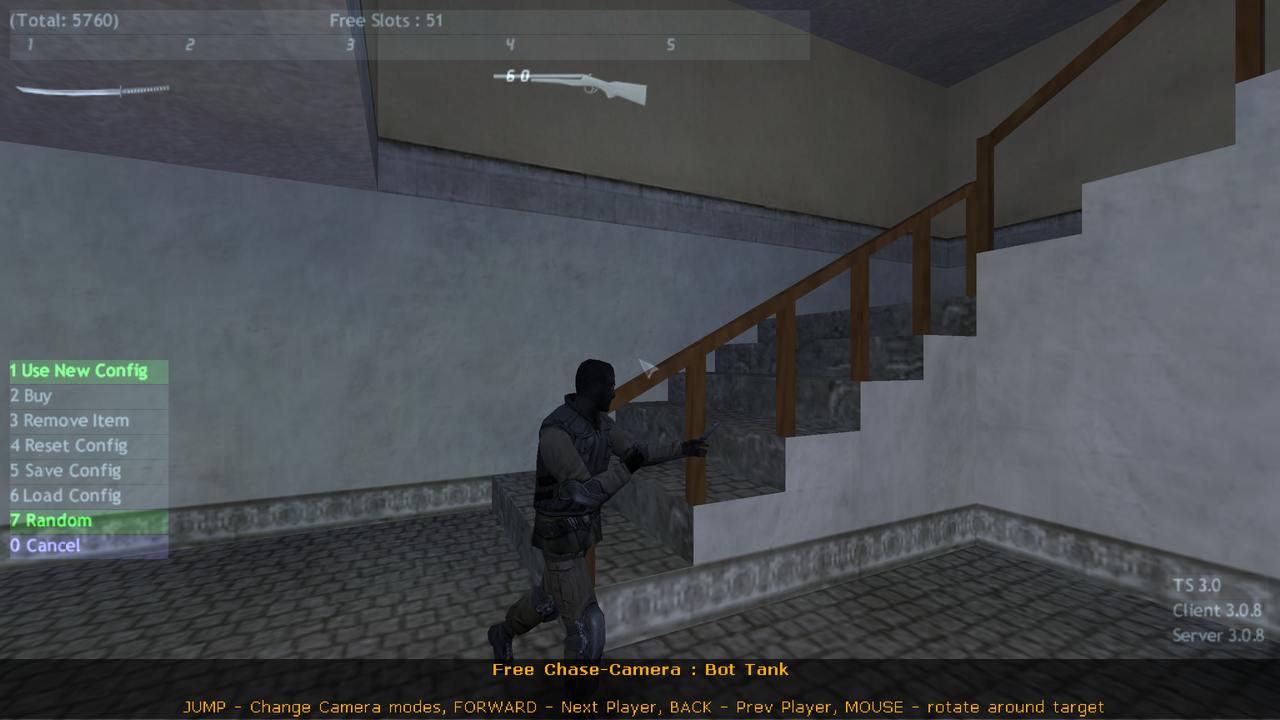
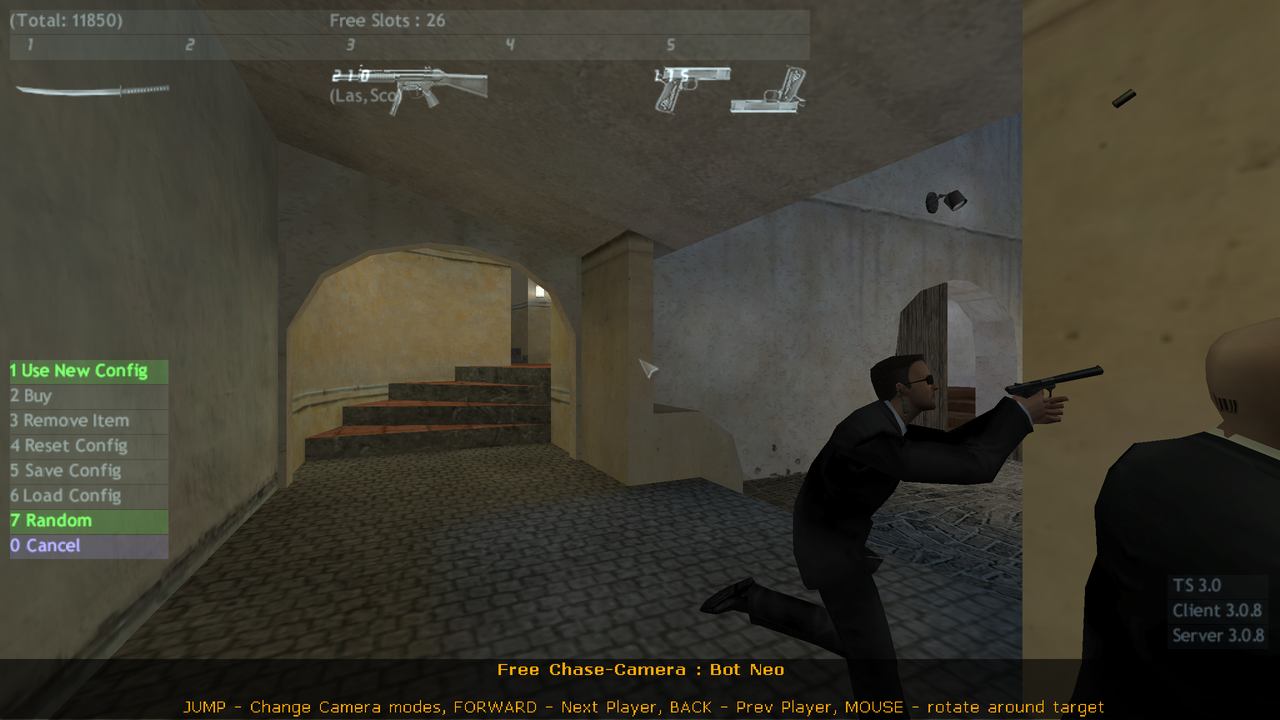
docs: the README now matches what production actually does
The README still carried the withdrawn keyboard root cause as one of "the
four things that make it work" — "the published WASM build never drains
its SDL event queue and no keyboard event reaches the game" — and its
whole section 3 was the old command-map bridge. That claim was disproven
on 2026-10-24 and the fix is live; the README just never heard about it.

What changed:

- Section 3 is now "The keyboard path": the engine's own bind table runs
  the keys, the front end opens TS's anti-script gate for the gated
  commands, bridges the two mouse buttons, and keeps Escape out of the
  engine entirely (three-stage DOM state machine).
- The `ts_gate` section no longer rests on the withdrawn premise.
- Known limitations: the console is disabled on purpose, and a bare
  `reload` aborts the WASM heap. The withdrawn upstream claim is flagged
  so the draft report is not filed.
- 36 -> 67 unit tests, and the submodule branch is `feat/keyboard-native-input`.
- The dev setup says `bun install` (it is a bun project, no npm lockfile)
  and states the one thing that does not work yet: a browser client cannot
  connect to a LOCAL game server (E5).
- New "What is next" section, pointing at HANDOFF and FE-MOD-PLAN.
- Both screenshots re-captured from the live site today with
  `tools/deploy/capture-readme-shots.cjs`, downscaled to 1280 wide.

Verified: images resolve, every relative link resolves, HTML table tags
balanced, markdown table columns consistent, and the page rendered in a
[…]

diff --git a/README.md b/README.md
@@ -11,7 +11,7 @@
     </td>
     <td align="center" valign="top" width="50%">
       <b>In game</b><br>
-      <img src="docs/screenshots/spectator.png" alt="The game running in the browser: the ts_casa map rendering, a character model, the TS weapon HUD, and the buy menu" width="100%">
+      <img src="docs/screenshots/spectator.png" alt="The game running in the browser: the ts_casa map rendering, two character models, the TS weapon HUD across the top, and the buy/config menu open on the left" width="100%">
     </td>
   </tr>
 </table>
@@ -40,6 +40,9 @@
 - **Changing the CI or the deploy?** Read
   [`docs/CI-CD.md`](./docs/CI-CD.md) — including the two traps that have
   already broken a build.
+- **Looking for the open work?** Read
+  [`docs/FE-MOD-PLAN.md`](./docs/FE-MOD-PLAN.md) — the front end and mod
+  work list, grouped into batches, with the reasoning and the order.
 
 ---
 
@@ -52,8 +55,10 @@ None of them is obvious, and each one cost a debugging round.
    code, not a JavaScript reimplementation.
 2. **A WebSocket↔UDP bridge**, because a browser cannot emit UDP and the
    engine's network stack speaks it natively.
-3. **A command bridge**, because the published WASM build never drains its
-   SDL event queue and no keyboard event reaches the game.
+3. **The engine's own key path**, used as it is. The engine does receive
+   DOM keys and runs its own bind table — that was measured, not assumed.
+   The front end's job is to stay out of the way, and to keep Escape away
+   from the engine entirely.
 4. **A gate fix in the port**, because TS deliberately refuses to run nine
    button commands unless a physical keypress opened them.
 
@@ -113,32 +118,56 @@ the bridge *where* to send a packet; only the floor says whether it is
 refused **before** the handshake, with a plain 403, because a connection
 that opens and then closes reads to the client as "connected".
 
-### 3. The command bridge
+### 3. The keyboard path
 
-The published `xash.wasm` never calls `SDL_PollEvent`, so nothing drains
-the SDL queue: a pushed `SDL_KeyboardEvent` is *accepted* (returns `1`)
-and then sits there forever, alongside the engine's own window and
-audio-device events. No key event ever reaches `HUD_Key_Event`.
+The engine's keyboard works. With the TS client's own `ts_dev_keylog 1`, in
+a real Chromium against a live server:
 
-So `keyboard-bridge.ts` listens for DOM keys directly and execs engine
-**commands** through `Cmd_ExecuteString`. This covers movement, weapon
-slots, the scoreboard, the console toggle, and spawn.
+```
+[ts key] HUD_Key_Event escape down=1 binding="cancelselect" -> 1
+[ts key] cancelselect: escape
+```
 
-**Its ceiling:** anything implemented as a client-DLL *key handler* —
-clicking an item in the buy menu, typing into the console — stays
-unreachable. That is structural, not a bug, and it is upstream's to fix.
+The engine's `keydown` listener fires, reaches `HUD_Key_Event`, and runs
+its own bind table — `ts/config.cfg` already binds movement, weapon
+slots, chat, third person, reload and use.
 
-Two things about this bridge that are easy to get backwards:
+The long-held belief that the engine never sees a key was **wrong**, and
+it cost a bug: the front end *also* translated every DOM key into an
+engine command, so every key ran twice. That is the whole of "typing
+triggers hot keys AND types at the same time" — Y opened the chat twice,
+and the real keystroke typed a `y` into a chat that was already open —
+and of third person looking broken, because X ran `thirdperson` twice, on
+then straight back off.
 
-- **Held vs instant.** `+showscores`/`-showscores` is a button and must be
-  held; `toggleconsole` is a plain action and must be sent **bare**.
-  `Cmd_ExecuteString` looks up `argv[0]` literally, so sending
-  `+toggleconsole` prints `Unknown command: +toggleconsole`. Probe both
-  spellings; the two tables are not derivable from each other.
-- **Grep both wasms.** Engine-owned commands (`showscores`,
-  `toggleconsole`) live in `xash.wasm`; client-DLL commands (`slot1`,
-  `buy`) live in the client wasm. A missing symbol from one binary is not
-  evidence the command doesn't exist.
+So there is no command map any more. What the front end still does:
+
+- **Nothing, for most keys.** The engine's bind table runs them.
+- **Opens TS's anti-script gate** for the gated button commands it handles
+  (movement, jump, duck, reload), and releases the held command on key-up
+  (see §4).
+- **Bridges the two mouse buttons** — `attack` and `attack2`.
+- **Keeps Escape away from the engine.** `escape-gate.ts` intercepts the
+  key on `window` with `capture: true`, registered at module load —
+  before the engine boots and registers its own listener — and calls
+  `stopImmediatePropagation()`. Escape #1 releases the pointer lock,
+  Escape #2 opens the options overlay, Escape #3 closes it. It is a
+  state machine rather than a read of `document.pointerLockElement`,
+  because the browser exits pointer lock on Escape on its own, which
+  would make the first press look like the second.
+
+Four entries are cleared in the engine's own bind table at boot
+(`xash-loader.ts`): **`b`** (the buy/config menu), **the backquote and
+`~`** (the console), and **Escape** — the last one as a second line of
+defence behind the DOM interception. The buy menu is still the client's
+own menu: it opens when the client is an observer (on join, and after a
+death) and is navigated with the weapon-slot keys. Pressing **B** does
+nothing.
+
+Two things are still out of reach, and neither is a bug in the front end:
+**typing into the console** (the console is disabled outright), and a
+**bare `reload`**, which aborts the WASM heap — see
+[`docs/UPSTREAM-ISSUES.md`](./docs/UPSTREAM-ISSUES.md).
 
 ### 4. `ts_gate` — the anti-script gate
 
@@ -152,15 +181,15 @@ fn gate_open() -> bool { REAL_KEY.0.get() || !input_gate() || dev_input_allowed(
 
 `+attack +attack2 +alt2 +reload +forward +back +moveleft +moveright +jump`
 
-With the SDL path dead, `HUD_Key_Event` never runs, so `REAL_KEY` is never
-set and **all nine are discarded silently** — no error, no log. Firing did
-nothing at all. Movement only looked healthy because the non-gated movement
-bindings take a different path.
+`REAL_KEY` is set for the frame a keypress happens in, and `HUD_Frame`
+re-arms it afterwards. A gated command that arrives without it is
+**discarded silently** — no error, no log — which is why the gate is worth
+an explicit look rather than a guess.
 
 `ts_gate <1-500>` sets `REAL_KEY` for the current frame, the same lifetime
 a real keypress gives it. The bridge calls it immediately before any gated
-command. It is **not** a blanket bypass: bounded duration, caller is the
-bridge, and `HUD_Frame` re-arms the gate exactly as before.
+command it sends. It is **not** a blanket bypass: bounded duration, caller
+is the bridge, and `HUD_Frame` re-arms the gate exactly as before.
 
 ---
 
@@ -287,10 +316,15 @@ player is told when the server goes away.
   `SharedArrayBuffer`: Chrome and Edge are fine, Firefox 119+, Safari 18+.
 - **The player count lags by up to two minutes** after someone leaves — the
   server holds the slot until its own timeout fires.
-- **Blocked upstream** (see [`docs/UPSTREAM-ISSUES.md`](./docs/UPSTREAM-ISSUES.md)):
-  client-DLL menus needing `HUD_Key_Event` (clicking buy-menu items),
-  console text input (needs SDL text events), and a bare `reload` that
-  aborts the wasm heap on first call.
+- **The console is disabled**, on purpose: its binding is cleared at boot
+  and nothing in the front end opens it. Typing into it is therefore not
+  possible, not merely awkward.
+- **A bare `reload` aborts the WASM heap.** The front end uses the held
+  `+reload` / `-reload` pair and never hits it; the engine defect is
+  still there. [`docs/UPSTREAM-ISSUES.md`](./docs/UPSTREAM-ISSUES.md)
+  also carries the keyboard root cause that was **withdrawn** — the
+  instrument was wrong, and that draft report must not be filed as
+  written.
 
 ---
 
@@ -298,7 +332,7 @@ player is told when the server goes away.
 
 | Path | What it is |
 |---|---|
-| `webxash/` | Vue frontend + the WASM engine (git submodule, branch `phase-0-stub-fix`) |
+| `webxash/` | Vue frontend + the WASM engine (git submodule, branch `feat/keyboard-native-input`) |
 | `tools/port/tsp-rs/` | Vendored Rust port of TS gameplay |
 | `tools/port/tsp-rs/crates/ts30/`, `ts21/` | TS 3.0 / 2.1 rulesets |
 | `tools/port/tsp-rs/scripts/` | Build, deploy, server, bridge, and probe scripts |
@@ -326,8 +360,8 @@ tools/port/tsp-rs/scripts/start-ts-server.sh
 # 2. WebSocket↔UDP bridge (WS 27017)
 tools/port/tsp-rs/scripts/start-bridge.sh
 
-# 3. Frontend (Vite)
-cd webxash && npm run dev
+# 3. Frontend (Vite) — a bun project; there is no npm lockfile
+cd webxash && bun install && bun run dev
 ```
 
 Then open the Vite URL with the connect address:
@@ -343,6 +377,15 @@ cannot occlude the real one).
 **The app is served from `/`, not `/webXash/`.** The Vite `base` has to
 match where it is actually served, or the entry module 404s and the page
 renders blank with an empty console.
+
+> **One thing that does not work yet:** a browser client cannot complete a
+> connection to a *local* game server. GoldSrc refuses a loopback
+> `+connect`, and a browser on this host cannot reach the
+> docker-published UDP port. The transport itself is proven — the real
+> handshake runs through the bridge — so it is a topology problem, not a
+> broken bridge. Until it is fixed, gameplay changes are verified against
+> production rather than against a local server. It is tracked as **E5**
+> in [`docs/FE-MOD-PLAN.md`](./docs/FE-MOD-PLAN.md).
 
 ---
 
@@ -426,7 +469,7 @@ button was broken, and every run passed.
 
 | Workflow | Trigger | What it does |
 |---|---|---|
-| `ci.yml` | PR, push to main | Typecheck, build, 36 unit tests, builds all three images |
+| `ci.yml` | PR, push to main | Typecheck, build, 67 unit tests, builds all three service images |
 | `pr-required.yml` | push to main | Fails a commit that did not come from a pull request |
 | `deploy.yml` | push to main | Ships to production, then verifies it in a real browser |
 
@@ -440,7 +483,7 @@ request.
 npm test          # the regression suite
 ```
 
-36 tests, and **every one corresponds to a bug that reached production**.
+67 tests, and **every one corresponds to a bug that reached production**.
 That is the design rule: a test earns its place by locking in a failure
 we actually had. The A2S bot count's byte offset, the bridge's
 allowlist, the empty-map-versus-unknown distinction in the human count,
@@ -457,12 +500,32 @@ negative are all covered.
 
 ---
 
+## What is next
+
+The open work is tracked in [`HANDOFF.md`](./HANDOFF.md) (`§ NEXT TASK`)
+and [`docs/FE-MOD-PLAN.md`](./docs/FE-MOD-PLAN.md). The short version:
+
+- **Matchmaking** — the policy is decided (the fullest server that is not
+  full); the implementation is not. The browser currently sorts the
+  opposite way.
+- **The local dev loop** — a browser client cannot connect to a local game
+  server yet, and that is what makes gameplay work safe to iterate on.
+- **Loading performance** — the 493 MB archive is inflated on the main
+  thread; the inflate wants to be in a worker.
+- **Menus** — the buy menu, pre-game setup and client-side knobs, as DOM
+  overlays over live engine state.
+- **The re-brand** — names, copy, favicon, and the server's own A2S name.
+
+---
+
 ## Deliberately not done
 
 **CheerpX.** The original plan ran TS's closed-source x86 DLLs unmodified
 via an x86 emulator in WASM. Shipping a Rust port instead removed the
 emulator, the dual-mode build, and a whole class of "is it the port or is
 it CheerpX?" ambiguity.
+
+**Matchmaking by skill.** Explicitly out of scope — not ELO-based.
 
 ---
 

diff --git a/HANDOFF.md b/HANDOFF.md
@@ -16,9 +16,14 @@
 
 # § CURRENT STATE
 
-**As of:** 2026-10-23, commit `d144550` (**PRODUCTION — the game is live at https://bulletballet.dev**)
+**As of:** 2026-10-24, `main` (**PRODUCTION — the game is live at https://bulletballet.dev**)
 **Active path:** webXash (Xash3D-FWGS WASM **client**) + the real TS server as a WASM **dedicated server** in a container
 **Goal:** ~~playable The Specialists in the browser~~ — **met.** Real assets, real gameplay, real dedicated server, public URL.
+
+**Docs:** the README was refreshed against production on 2026-10-24. The
+withdrawn keyboard root cause is gone from it, both screenshots were
+re-captured from the live site, and the test count and the submodule branch
+now match the repo.
 
 ## The one-line version
 
